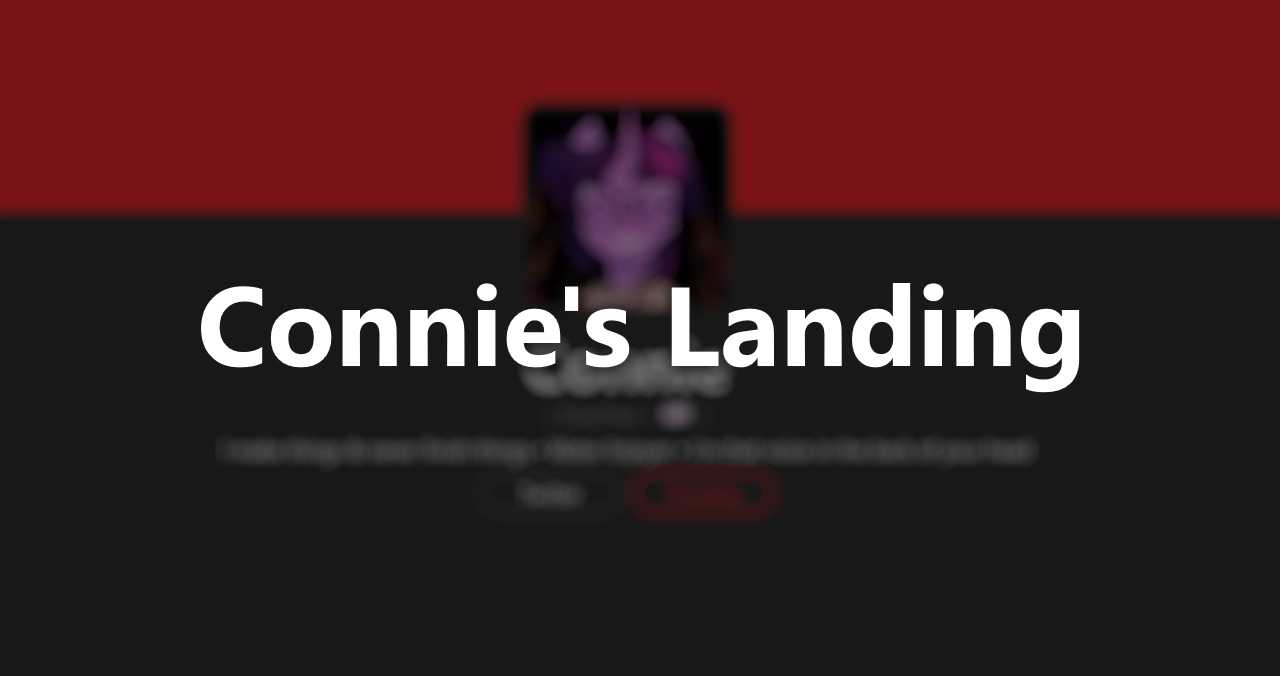
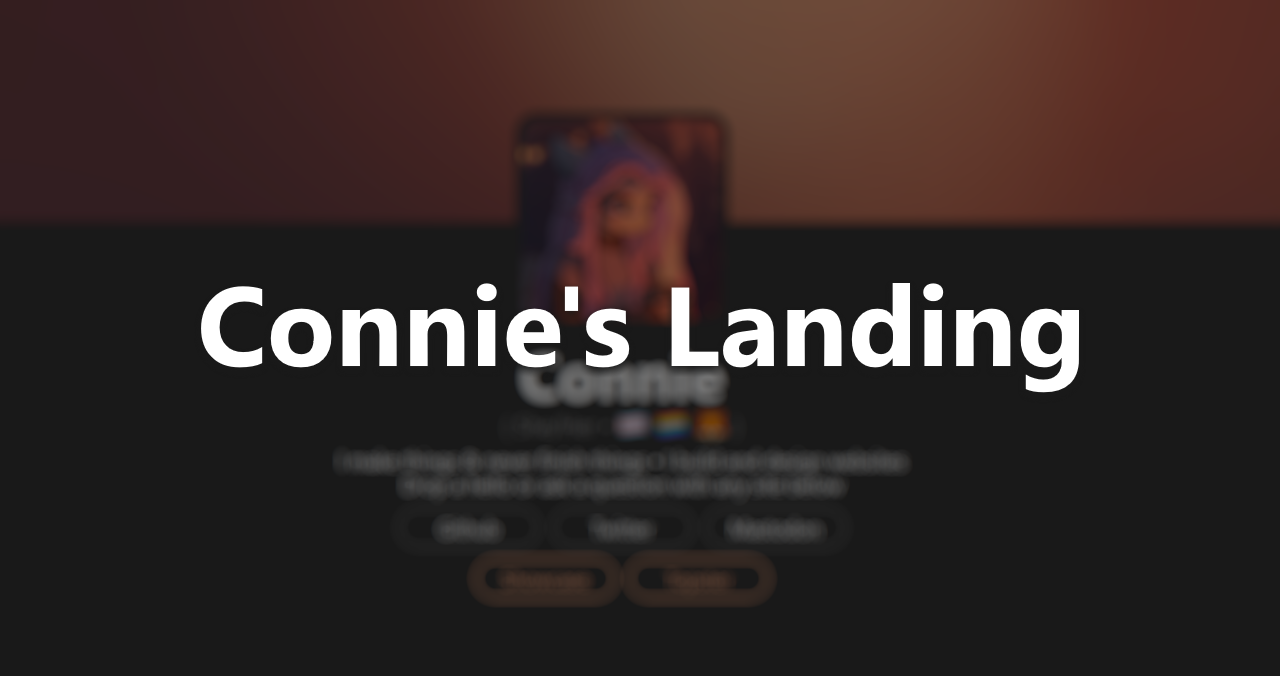
New Stuff

diff --git a/index.html b/index.html
@@ -47,14 +47,13 @@
           <span id="About">Drop a hello or ask a question with any site below</span>
         </section>
         <section>
-          <a class="Button Brand" target="_blank" href="https://github.com/Coniferr">Github</a>
-          <a class="Button Brand" target="_blank" href="https://twitter.com/Conifer_r">Twitter</a>
+          <a class="Button" target="_blank" href="https://github.com/Coniferr">Github</a>
+          <a class="Button" target="_blank" href="https://twitter.com/Conifer_r">Twitter</a>
           <a class="Button" target="_blank" rel="me" href="https://mastodon.lol/@Connie">Mastodon</a>
-          <a class="Button" target="_blank" href="https://cdn.discordapp.com/attachments/826952984696717364/932122416400965632/Conifer_Standee.png">Fursona</a>
         </section>
-        <section id="Nav">
-          <a class="NavButton" target="_blank" href="https://coniferr.github.io/show.html">Showcase</a>
-          <a class="NavButton" target="_blank" href="https://cdn.discordapp.com/attachments/849666891341627432/964168577877966989/topsters2.png">Topster</a>
+        <section>
+          <a class="Button Brand" target="_blank" href="https://coniferr.github.io/show.html">Showcase</a>
+          <a class="Button Brand" target="_blank" href="https://cdn.discordapp.com/attachments/849666891341627432/964168577877966989/topsters2.png">Topster</a>
         </section>
       </main>
     </div>

diff --git a/content/Styles.css b/content/Styles.css
@@ -30,7 +30,7 @@ Body {
 }
 
 ::Selection {
-    background-color: #BF1931;
+    background-color: #F2AD85;
     color: #FFF;
 }
 
@@ -57,7 +57,8 @@ Body {
 }
 
 .Banner {
-    background-color: #BF1931;
+    background-color: #FE976B;
+    background-image: url(Banner.jpg);
     background-size: 150%;
     height: 350px;
     width: 100%;
@@ -162,18 +163,18 @@ span#About {
 }
 
 .Brand {
-    border-color: #BF1931;
-    color: #BF1931;
+    border-color: #F2AD85;
+    color: #F2AD85;
 }
 
 .Brand:hover {
-    border-color: #BF1931;
-    background-color: #BF193133;
+    border-color: #F2AD85;
+    background-color: #F2AD8533;
 }
 
 .Brand:active {
-    border-color: #BF1931;
-    background-color: #BF193133;
+    border-color: #F2AD85;
+    background-color: #F2AD8533;
 }
 
 /*Nav*/
@@ -198,27 +199,6 @@ header#Nav {
     font-weight: 700;
     text-decoration: none;
 }
-
-.NavButton {
-    color: #FFF;
-    font-size: 20px;
-    font-weight: 400;
-    line-height: 32px;
-    text-decoration: none;
-    display: inline-block;
-    margin-top: 12px;
-    margin-left: 8px;
-    margin-right: 8px;
-}
-
-.NavButton:hover {
-    color: #BF1931;
-}
-
-.NavButton:active {
-    color: #BF1931;
-}
-
 
 /*Dsplay*/
 

diff --git a/show.html b/show.html
@@ -48,27 +48,6 @@
           </section>
         </main>
       </div>
-      <div style="padding-bottom: 16px;">
-        <header>
-          <a target="_blank" href="/">
-            <img class="DisplayImg" src="content/Placeholder.png">
-          </a>
-        </header>
-        <main>
-          <section class="AboutMe">
-            <div class="About">
-              <h3 id="Title">Placeholder</h3>
-              <div class="Flags">
-                (
-                <span id="Subtitle" style="line-height: 22px;">1969-1969</span>
-                )
-              </div>
-            </div>
-            <span id="About">The place where you place your placeholder</span>
-            <span id="About">Ingore this placeholder text</span>
-          </section>
-        </main>
-      </div>
     </div>
   </body>
 </html>
